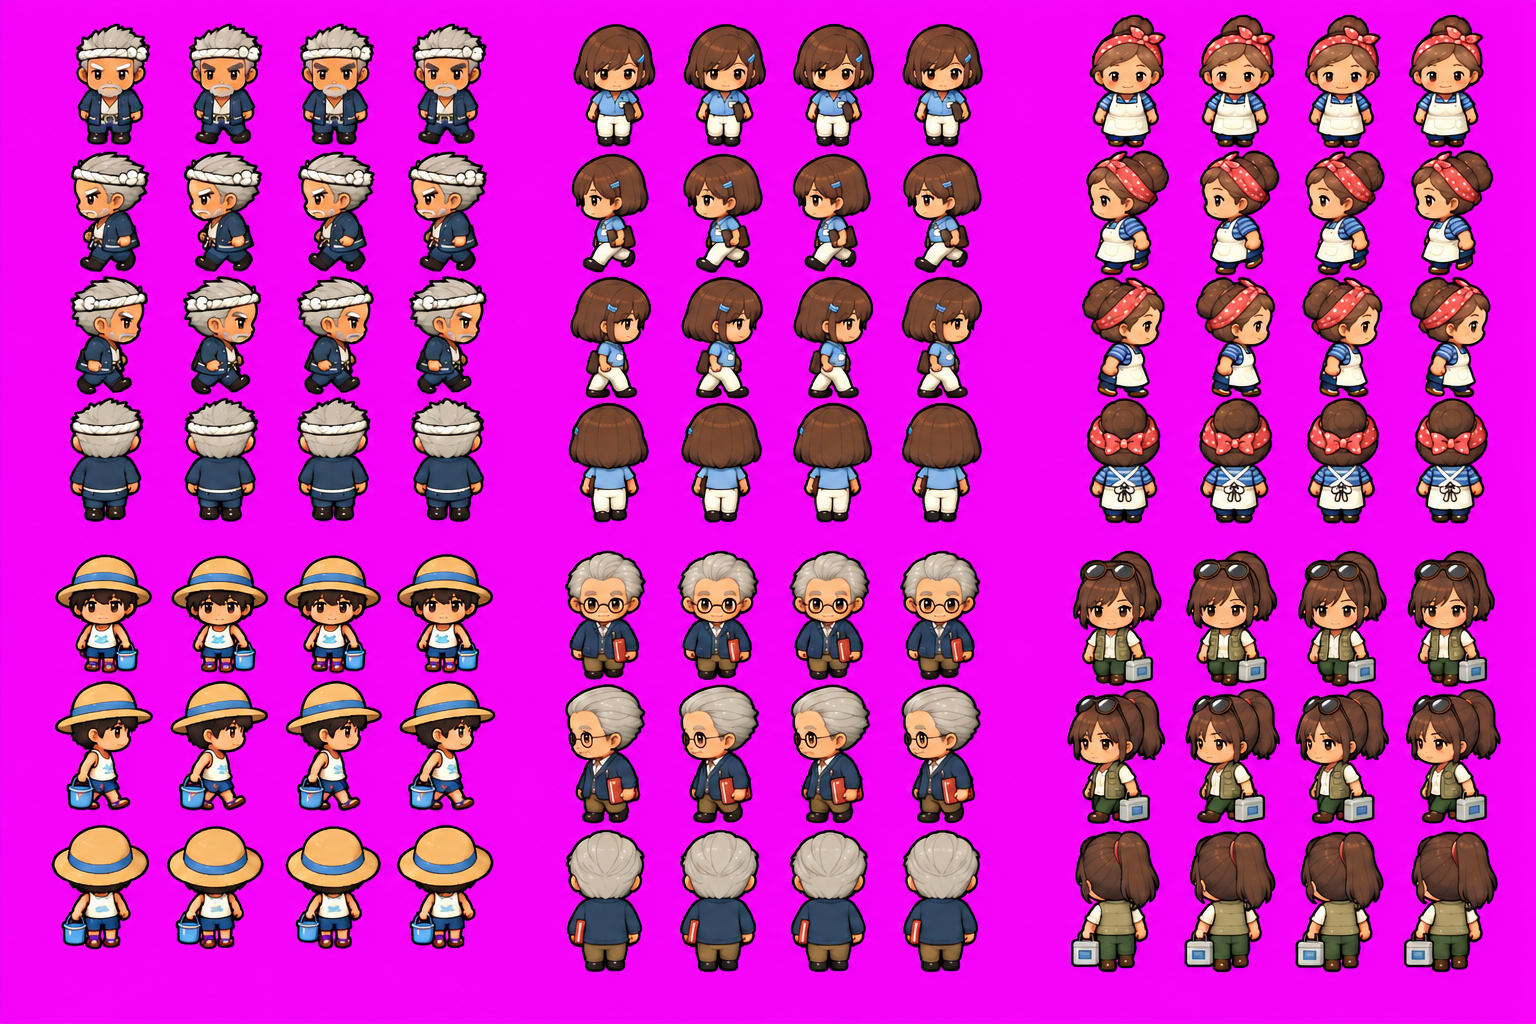
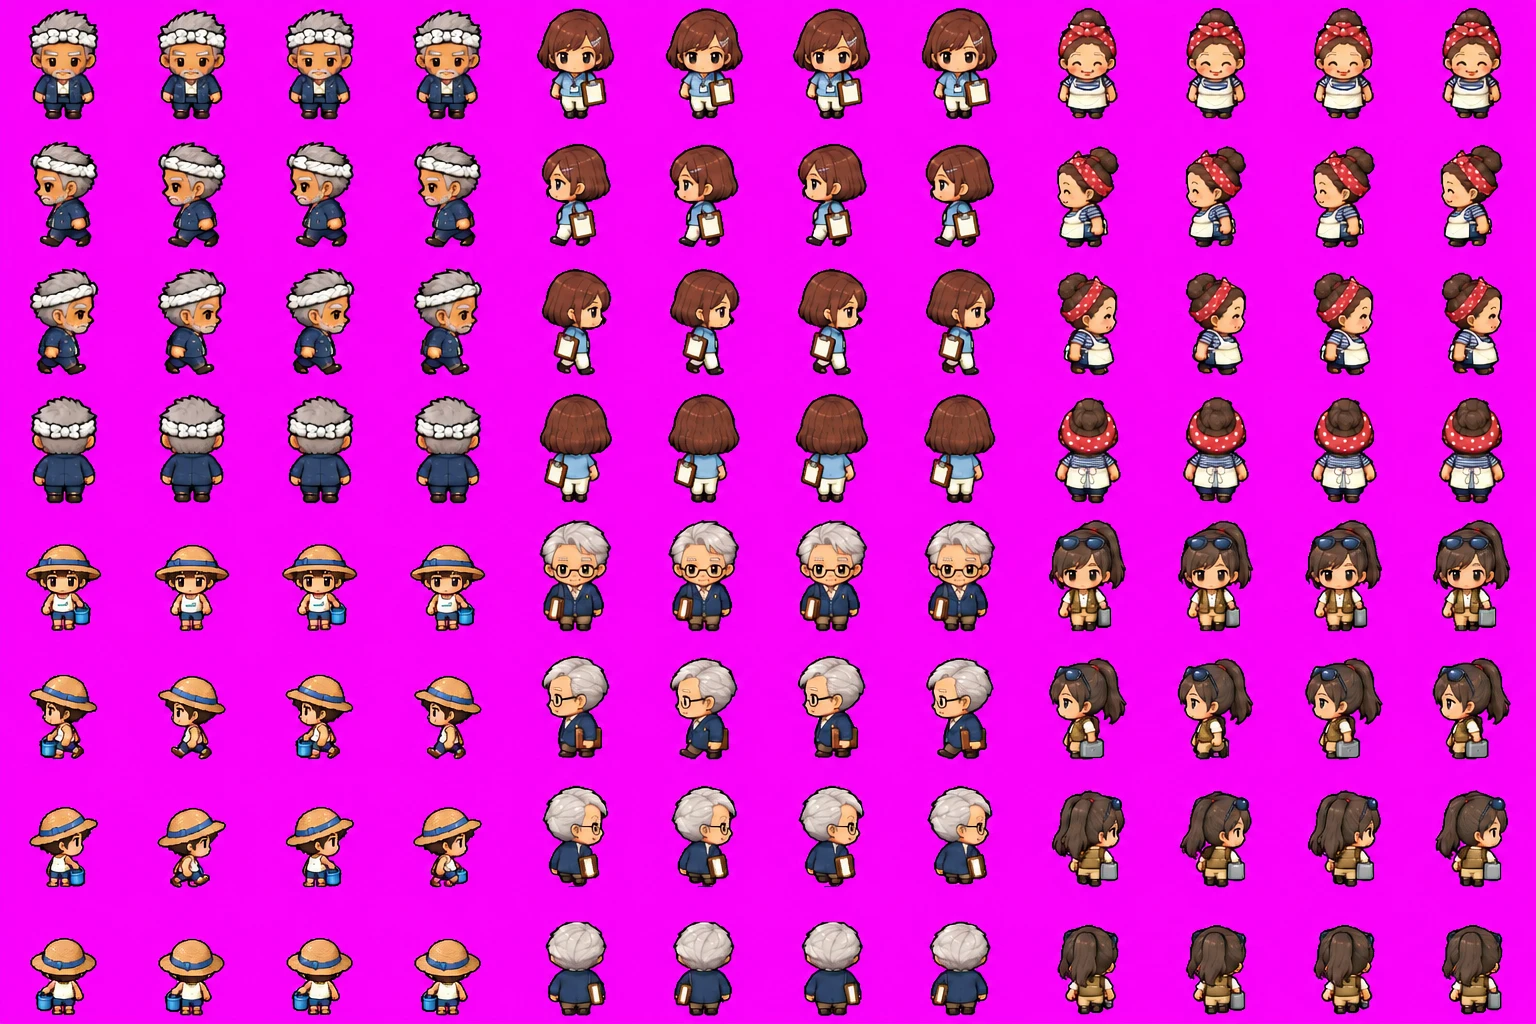
Shiomi townspeople with real right-facing views
The final character sheet (art/sheets/hm_chars_harbor.webp) lies on a fixed 128 px grid
with all four directions drawn, so the cutter reads it cell by cell instead of mirroring
the left view; Nagisa's hair clip is corrected as well.

Claude-Session: https://claude.ai/code/session_01U4DUv6fKcQMDCzCJbpSW7Y

diff --git a/tools/build_characters.py b/tools/build_characters.py
@@ -209,9 +209,6 @@ REDRAWN = {
     # chapter 3: the snowy mountain village (sheet has 3 rows per block: down, left, up)
     'hm_chars_mountain.webp': [[('npc', 'tsuru'), ('npc', 'hina'), ('npc', 'fujii')],
                                [('npc', 'kuroda'), ('npc', 'jokan'), ('npc', 'traveller')]],
-    # chapter 4: the harbour town (top row 4 direction rows, bottom row only down / left / up)
-    'hm_chars_harbor.webp': [[('npc', 'gen'), ('npc', 'nagisa'), ('npc', 'hamada')],
-                             [('npc', 'kaito'), ('npc', 'umino'), ('npc', 'shiraishi')]],
     'hm_chars_valley.webp': [[('npc', 'hayashi'), ('npc', 'sakura'), ('npc', 'okami')],
                              [('npc', 'kenji'), ('npc', 'ota'), ('npc', 'busdriver')]],
     'hm_chars_more.webp': [[('npc', 'kirishima'), ('npc', 'station_staff'), ('npc', 'customer')],
@@ -222,7 +219,7 @@ REDRAWN = {
 
 
 # sheets whose blocks always have this many direction rows (guessing from the block height fails for bulky figures)
-ROWS_PER_BLOCK = {'hm_chars_mountain.webp': 3, 'hm_chars_harbor.webp': [4, 3]}  # a list: per block row
+ROWS_PER_BLOCK = {'hm_chars_mountain.webp': 3}
 
 CHILDREN = {'kid', 'hina', 'kaito'}
 CHILD_HEIGHT = 38
@@ -297,6 +294,29 @@ def redrawn_sheet(name, layout):
             print(name, who, f'{n} rows')
 
 
+# sheets on a fixed grid (cell px): 3 blocks of 4 x 4 cells per block row, rows down / left / right / up
+GRID_NPC_SHEETS = {
+    'hm_chars_harbor.webp': (128, [['gen', 'nagisa', 'hamada'], ['kaito', 'umino', 'shiraishi']]),
+}
+
+
+def fixed_grid_sheet(name, cell, layout):
+    a = load(name)
+    fg = ndimage.binary_opening(~magenta_mask(a))
+    for br, row in enumerate(layout):
+        for bc, who in enumerate(row):
+            imgs = [cut(a, fg, ((bc * 4 + c) * cell, (br * 4 + r) * cell, (bc * 4 + c + 1) * cell, (br * 4 + r + 1) * cell))
+                    for r in range(4) for c in range(4)]
+            tallest = max(i.height for i in imgs)
+            h = CHILD_HEIGHT if who in CHILDREN else HEIGHT
+            for k, d in enumerate(['down', 'left', 'right', 'up']):
+                img = imgs[k * 4]
+                resize_px(img, max(8, round(img.height * h / tallest))).save(os.path.join(OUT, f'npc_{who}_{d}.png'))
+            print(name, who, 'fixed grid')
+
+
 if __name__ == '__main__':
     for n, layout in REDRAWN.items():
         redrawn_sheet(n, layout)
+    for n, (cell, layout) in GRID_NPC_SHEETS.items():
+        fixed_grid_sheet(n, cell, layout)
